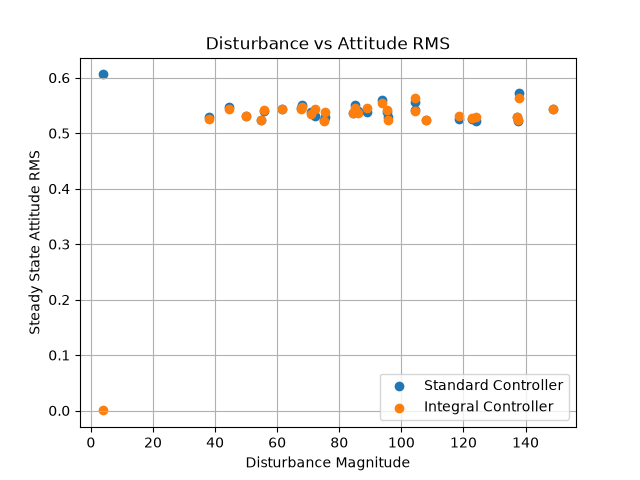
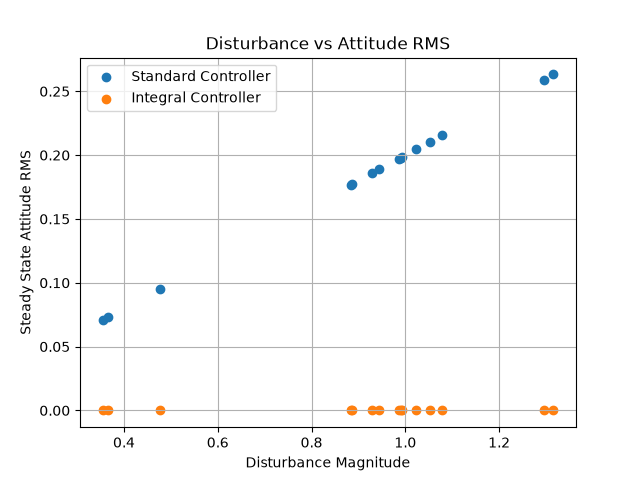
updated

diff --git a/experiments/lyapunov_controller/monte_carlo_disturbance_robustness/monte_carlo_disturbance_robustness.py b/experiments/lyapunov_controller/monte_carlo_disturbance_robustness/monte_carlo_disturbance_robustness.py
@@ -141,7 +141,7 @@ def simulate_integral_controller(K, P, KI, disturbance):
 
 
 # monte carlo simulation
-num_simulations = 30
+num_simulations = 15
 steady_state_start = 250.0
 disturbance_norm_history = np.zeros(num_simulations)
 
